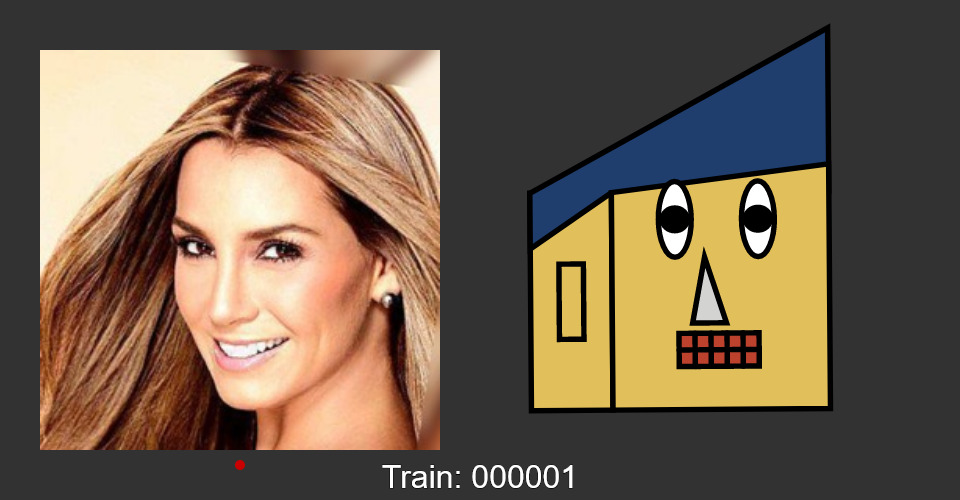
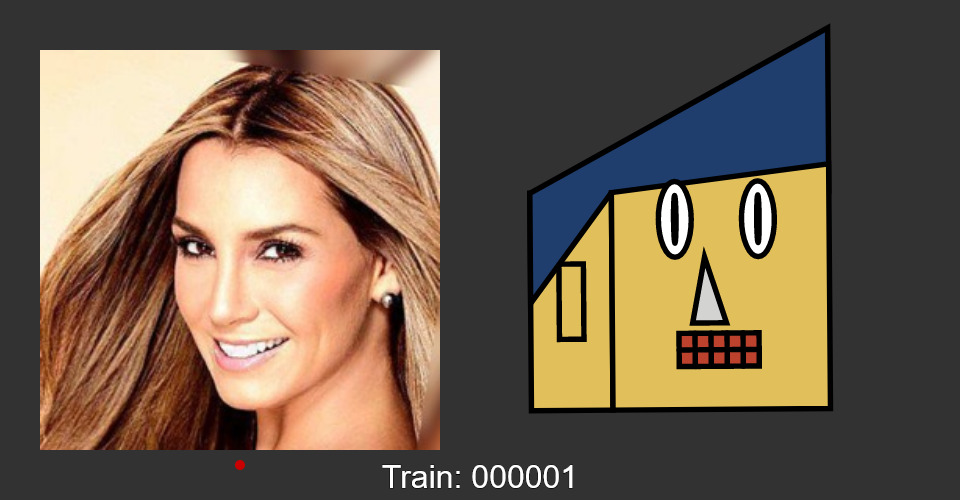
added extra pupil sizes

Changed region(s): [[0.5312, 0.39, 0.6562, 0.6], [0.75, 0.39, 0.8125, 0.48], [0.6875, 0.39, 0.7188, 0.48]]

diff --git a/myFace.js b/myFace.js
@@ -4,12 +4,12 @@ const faceScale=0.5;
 const eyeHeightScalar=7;
 const sideBurns = [ "triangle", "square","none"];
 const minSideBurnHeight=.1*faceScale;
-const maxSideBurnHeight=4*faceScale;
+const maxSideBurnHeight=8*faceScale;
 //nose
 
 const noseDirections=["left","both","right"];
 //eyes
-const pupilSizes=["wide","tall","small"];
+const pupilSizes=["wide","tall","small","large","thin"];
 const minInnerEyeWidth=.3;
 const maxInnerEyeWidth=0.76;
 const minInnerEyeHeight=.3;
@@ -36,7 +36,7 @@ const black=[0,0,0];
 const grey=[211,211,209];
 const white=[255,255,255];
 const darkGrey=[110,110,110];
-
+const pink=[188,66,108];
 
 class myFace{
  
@@ -199,7 +199,15 @@ class myFace{
     this.innerEyeWidth=minInnerEyeWidth;
     this.innerEyeHeight=maxInnerEyeHeight;
   }
-  else{
+  else if(this.pupilSize=="large"){
+    this.innerEyeWidth=maxInnerEyeWidth;
+    this.innerEyeHeight=maxInnerEyeHeight;
+  }
+  else if(this.pupilSize=="thin"){
+    this.innerEyeWidth=minInnerEyeWidth/4;
+    this.innerEyeHeight=maxInnerEyeHeight;
+  }
+  else if (this.pupilSize=="small"){
     
     this.innerEyeWidth=minInnerEyeWidth;
     this.innerEyeHeight=minInnerEyeHeight;

diff --git a/README.md b/README.md
@@ -1,1 +1,1 @@
-I have made the pupil width and height be on a single slider with 3 discrete options: one with a wide pupil, one with a tall pupil and one with a small circular pupil. I did this because there is no tracking data for the size of them and because people don't really get identified by the size of their pupil. The only thing that really gets seen is this person has a big pupil and this other one has a small one. Additionally I think it would have been quite hard to train the model when there were two sliders for width and height of it due to the size of the pupil not changing that noticably when the width or height were near its maximum and if they both are the eye just looks black. In the previous assignment when this just looked black I had it so the pupil would be scaled down if the width and height were both big but this would make it hard to identify people as the feature would not appear consistent and so make it harder to identify someone. 
+Even though as I said in my last message the eye pupil isn't going to be the most distingushable feature I have added a couple more discrete options to the size so there are now 5 options.  
